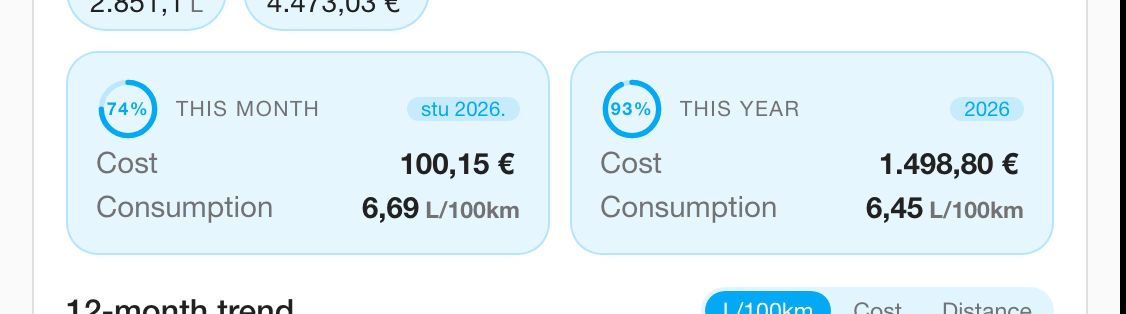
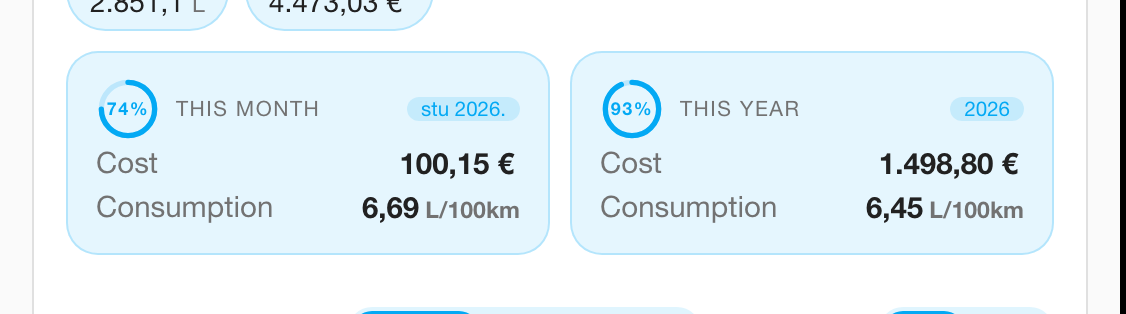
feat(card): history sparklines and a 12M/24M range switch
Four mini sparkline cards (L/100km, cost, distance, price/litre) with the latest
value and the change against the previous month, plus a 12M/24M range switch on
the trend chart (the months payload already stores 24). Verified: 12 points on
12M, 24 on 24M, back to 12; mini sparklines drawn for all four series.

Changed region(s): [[0.3108, 0.8885, 0.9325, 1.0], [0.1554, 0.0, 0.4041, 0.086], [0.0622, 0.9459, 0.2798, 1.0]]

diff --git a/custom_components/fuelusagetracker/frontend/fuelusagetracker-card.js b/custom_components/fuelusagetracker/frontend/fuelusagetracker-card.js
@@ -53,6 +53,14 @@ const TREND_SERIES = [
   { key: "distance", label: "Distance", digits: 0, unit: "km" },
 ];
 
+/** Small history sparklines: the four numbers that move month to month. */
+const MINI_SERIES = [
+  { key: "avg_consumption", label: "L/100km", digits: 2 },
+  { key: "cost", label: "Cost", digits: 2, money: true },
+  { key: "distance", label: "Distance", digits: 0 },
+  { key: "price", label: "Price / L", digits: 3, money: true },
+];
+
 const ROLLING = [
   { key: "rolling_distance", label: "Distance", digits: 0 },
   { key: "rolling_liters", label: "Litres", digits: 2 },
@@ -160,7 +168,20 @@ const STYLES = `
   .ring .ring-track { stroke: rgba(var(--rgb-primary-color, 3, 169, 244), .18); }
   .ring .ring-fill { stroke: var(--primary-color); stroke-linecap: round; transition: stroke-dashoffset .5s ease; }
   .ring-label { position: absolute; inset: 0; display: grid; place-items: center; font-size: .56rem; font-weight: 600; color: var(--primary-color); }
-  /* 12-month chart: area + line + grid, with a segmented series control. */
+  /* History: a row of mini sparklines, then the bigger chart. */
+  .history { padding: 14px 16px 12px; }
+  .history-head { display: flex; align-items: center; justify-content: space-between; gap: 8px 12px; flex-wrap: wrap; margin-bottom: 8px; }
+  .mini-grid { display: grid; grid-template-columns: repeat(4, minmax(0, 1fr)); gap: 8px; margin-bottom: 10px; }
+  .mini-card { min-width: 0; padding: 8px 10px 6px; border-radius: 12px;
+    background: rgba(var(--rgb-primary-color, 3, 169, 244), .08);
+    border: 1px solid rgba(var(--rgb-primary-color, 3, 169, 244), .18); }
+  .mini-label { font-size: .6rem; letter-spacing: .06em; text-transform: uppercase; color: var(--secondary-text-color); }
+  .mini-row { display: flex; align-items: flex-end; justify-content: space-between; gap: 6px; }
+  .mini-value { font-size: .92rem; color: var(--primary-text-color); }
+  .mini { flex: 0 0 auto; width: 62px; height: 26px; color: var(--primary-color); }
+  .mini .mini-area { fill: rgba(var(--rgb-primary-color, 3, 169, 244), .20); }
+  .mini .mini-line { fill: none; stroke: currentColor; stroke-width: 1.6; stroke-linecap: round; stroke-linejoin: round; }
+  @container (max-width: 519px) { .mini-grid { grid-template-columns: repeat(2, minmax(0, 1fr)); } }
   .trend { padding: 4px 16px 12px; }
   .trend-head { display: flex; align-items: center; justify-content: space-between; gap: 8px; margin-bottom: 4px; }
   .trend-title { font-weight: 500; color: var(--primary-text-color); }
@@ -307,6 +328,22 @@ function trendChart() {
   return { node: svg, area, line, dots, hit };
 }
 
+/** Tiny sparkline for one history metric. */
+function miniChart() {
+  const ns = "http://www.w3.org/2000/svg";
+  const svg = document.createElementNS(ns, "svg");
+  svg.setAttribute("class", "mini");
+  svg.setAttribute("viewBox", "0 0 62 26");
+  svg.setAttribute("preserveAspectRatio", "none");
+  svg.setAttribute("aria-hidden", "true");
+  const area = document.createElementNS(ns, "path");
+  area.setAttribute("class", "mini-area");
+  const line = document.createElementNS(ns, "path");
+  line.setAttribute("class", "mini-line");
+  svg.append(area, line);
+  return { node: svg, area, line };
+}
+
 /** Plain svg container for the header's 12-month bar mini-chart. */
 function barChart() {
   const svg = document.createElementNS("http://www.w3.org/2000/svg", "svg");
@@ -407,6 +444,7 @@ class FuelUsageTrackerCard extends HTMLElement {
     this._trendIndex = 0;
     this._trendPick = null;
     this._trendRows = [];
+    this._trendRange = 12;
   }
 
   static getStubConfig(hass) {
@@ -501,7 +539,7 @@ class FuelUsageTrackerCard extends HTMLElement {
     const state = this._entity(vehicle, "month_cost");
     const rows = (state && state.attributes && state.attributes.months) || [];
     return rows
-      .slice(0, 12)
+      .slice(0, 24)
       .reverse()
       .map((row) => ({
         period: String(row.period || ""),
@@ -511,6 +549,69 @@ class FuelUsageTrackerCard extends HTMLElement {
         avg_consumption: Number(row.avg_consumption),
       }))
       .filter((row) => row.period);
+  }
+
+  /** Pull one history metric out of a month row (price is derived). */
+  _seriesValue(row, series) {
+    if (series.key === "price") return row.liters > 0 ? row.cost / row.liters : NaN;
+    return row[series.key];
+  }
+
+  /** Draw one mini sparkline (area + line) from a list of values. */
+  _drawMini(chart, values) {
+    const points = values.filter((value) => Number.isFinite(value));
+    if (points.length < 2) {
+      chart.line.setAttribute("d", "");
+      chart.area.setAttribute("d", "");
+      return;
+    }
+    const WIDTH = 62;
+    const HEIGHT = 26;
+    const PAD = 2;
+    const min = Math.min(...points);
+    const span = Math.max(...points) - min || 1;
+    const mapped = points.map((value, index) => [
+      PAD + (index / (points.length - 1)) * (WIDTH - PAD * 2),
+      HEIGHT - PAD - ((value - min) / span) * (HEIGHT - PAD * 2),
+    ]);
+    const line = mapped
+      .map(([x, y], index) => `${index ? "L" : "M"}${x.toFixed(1)},${y.toFixed(1)}`)
+      .join(" ");
+    const last = mapped[mapped.length - 1];
+    chart.line.setAttribute("d", line);
+    chart.area.setAttribute("d", `${line} L${last[0].toFixed(1)},${HEIGHT} L${mapped[0][0].toFixed(1)},${HEIGHT} Z`);
+  }
+
+  /** History block: four mini sparklines plus the bigger trend chart. */
+  _renderHistory(vehicle) {
+    const refs = this._refs.minis;
+    const rows = this._history(vehicle).slice(-12);
+    const currency = this._currency(vehicle);
+    for (const series of MINI_SERIES) {
+      const ref = refs && refs[series.key];
+      if (!ref) continue;
+      const values = rows.map((row) => this._seriesValue(row, series));
+      this._drawMini(ref.chart, values);
+      const usable = values.filter((value) => Number.isFinite(value));
+      const last = usable[usable.length - 1];
+      const previous = usable[usable.length - 2];
+      ref.value.textContent = Number.isFinite(last)
+        ? series.money
+          ? this._money(last, currency)
+          : this._number(last, series.digits)
+        : "-";
+      const diff = Number.isFinite(last) && Number.isFinite(previous) ? last - previous : null;
+      if (diff === null) {
+        ref.delta.textContent = "";
+        ref.delta.className = "mini-delta";
+      } else {
+        ref.delta.textContent = `${diff > 0 ? "▲" : "▼"} ${
+          series.money ? this._money(Math.abs(diff), currency) : this._number(Math.abs(diff), series.digits)
+        }`;
+        ref.delta.className = "mini-delta";
+      }
+    }
+    this._renderTrend(vehicle);
   }
 
   /** The glow header's 12-month cost bars; hidden while there is nothing to plot. */
@@ -544,7 +645,10 @@ class FuelUsageTrackerCard extends HTMLElement {
   _renderTrend(vehicle) {
     const refs = this._refs.trend;
     const series = TREND_SERIES[this._trendIndex] || TREND_SERIES[0];
-    const rows = this._history(vehicle).filter((row) => Number.isFinite(row[series.key]));
+    const range = this._trendRange || 12;
+    const rows = this._history(vehicle)
+      .slice(-range)
+      .filter((row) => Number.isFinite(row[series.key]));
     this._trendRows = rows;
     if (rows.length < 2) {
       refs.node.style.display = "none";
@@ -814,6 +918,7 @@ class FuelUsageTrackerCard extends HTMLElement {
       );
     }
 
+    const miniRefs = {};
     const summary = el("div", { class: "periods-summary" });
     const panelBars = {};
     for (const panel of PERIOD_PANELS) {
@@ -841,7 +946,7 @@ class FuelUsageTrackerCard extends HTMLElement {
           this._trendIndex = index;
           this._trendPick = null;
           segments.forEach((node, i) => node.setAttribute("aria-pressed", String(i === index)));
-          this._renderTrend(vehicle);
+          this._renderHistory(vehicle);
         },
       })
     );
@@ -852,21 +957,47 @@ class FuelUsageTrackerCard extends HTMLElement {
       if (!box.width || this._trendRows.length < 2) return;
       const ratio = Math.min(1, Math.max(0, (event.clientX - box.left) / box.width));
       this._trendPick = Math.round(ratio * (this._trendRows.length - 1));
-      this._renderTrend(vehicle);
+      this._renderHistory(vehicle);
     };
     chart.hit.addEventListener("pointerdown", pick);
     chart.hit.addEventListener("pointermove", pick);
-    const trendNode = el("div", { class: "trend" }, [
-      el("div", { class: "trend-head" }, [
-        el("span", { class: "trend-title", text: "12-month trend" }),
+    const ranges = [12, 24].map((months) =>
+      el("button", {
+        type: "button",
+        "aria-pressed": months === this._trendRange ? "true" : "false",
+        text: months === 24 ? "24M" : "12M",
+        onclick: () => {
+          this._trendRange = months;
+          this._trendPick = null;
+          ranges.forEach((node, i) => node.setAttribute("aria-pressed", String([12, 24][i] === months)));
+          this._renderHistory(vehicle);
+        },
+      })
+    );
+    const minis = MINI_SERIES.map((series) => {
+      const value = el("span", { class: "mini-value" });
+      const delta = el("span", { class: "mini-delta" });
+      const mini = miniChart();
+      miniRefs[series.key] = { chart: mini, value, delta, series };
+      return el("div", { class: "mini-card" }, [
+        el("span", { class: "mini-label", text: series.label }),
+        el("div", { class: "mini-row" }, [value, mini.node]),
+        delta,
+      ]);
+    });
+    const historyNode = el("div", { class: "history" }, [
+      el("div", { class: "history-head" }, [
+        el("span", { class: "trend-title", text: "History" }),
         el("div", { class: "segments" }, segments),
+        el("div", { class: "segments" }, ranges),
       ]),
+      el("div", { class: "mini-grid" }, minis),
       chart.node,
       trendRead,
     ]);
 
     const error = el("div", { class: "error", hidden: "" });
-    card.append(glow, error, chips, summary, trendNode);
+    card.append(glow, error, chips, summary, historyNode);
 
     // Trailing-window strip; hidden entirely when the rolling_* sensors are absent.
     const rollingWindow = el("span", { class: "window" });
@@ -995,6 +1126,7 @@ class FuelUsageTrackerCard extends HTMLElement {
       spark,
       panels: panelBars,
       trend: { node: chart.node, area: chart.area, line: chart.line, dots: chart.dots, read: trendRead },
+      minis: miniRefs,
       last: lastRefs,
       inputs,
       addButton,
@@ -1065,7 +1197,7 @@ class FuelUsageTrackerCard extends HTMLElement {
       progress.label.textContent = share ? `${Math.round(share)}%` : "";
     }
 
-    this._renderTrend(vehicle);
+    this._renderHistory(vehicle);
 
     const last = this._entity(vehicle, "last_fill");
     const attrs = (last && last.attributes) || {};
@@ -1313,6 +1445,7 @@ class FuelUsageTrackerCard extends HTMLElement {
     this._trendIndex = 0;
     this._trendPick = null;
     this._trendRows = [];
+    this._trendRange = 12;
     this._error = message || null;
     this._renderError();
   }

diff --git a/CHANGELOG.md b/CHANGELOG.md
@@ -4,6 +4,16 @@ All notable changes to this project are documented here. The format follows
 [Keep a Changelog](https://keepachangelog.com/en/1.1.0/) and the project uses
 [semantic versioning](https://semver.org/).
 
+## [0.13.0] - 2026-11-23
+
+### Added
+
+* **History block** under the period cards:
+  * four mini sparkline cards — L/100 km, cost, distance and price per litre —
+    each with the latest value and its change against the previous month;
+  * a **12M / 24M** range switch on the trend chart (the payload already keeps
+    24 months), next to the existing L/100 km / cost / distance series switch.
+
 ## [0.12.1] - 2026-11-23
 
 ### Fixed
@@ -483,6 +493,7 @@ consumer, and no behaviour changed except the two removals listed below.
 * HA integration test suite (config flow, options flow, services, sensor states,
   consumption maths, storage round trip, translation parity).
 
+[0.13.0]: https://github.com/ngarafol/ha_fuel_usage_tracker/releases/tag/v0.13.0
 [0.12.1]: https://github.com/ngarafol/ha_fuel_usage_tracker/releases/tag/v0.12.1
 [0.12.0]: https://github.com/ngarafol/ha_fuel_usage_tracker/releases/tag/v0.12.0
 [0.11.0]: https://github.com/ngarafol/ha_fuel_usage_tracker/releases/tag/v0.11.0

diff --git a/README.md b/README.md
@@ -288,10 +288,11 @@ vehicle's initial), the name and fuel/engine line, the headline average consumpt
 large number with its 12-month sparkline and a "vs 12-month" delta, and — when
 more than one vehicle exists — one chip per vehicle (tap to switch). Below it comes a row of glass
 chips for every other figure, and *This month* / *This year* as two tinted panels
-whose ring shows the period's cost against the usual one. Under them a
-**12-month trend chart** (area + line, switchable between L/100 km, cost and
-distance) plots the monthly history and reports the tapped month. No grid of
-boxes.
+whose ring shows the period's cost against the usual one. Under them a **history block**: four
+mini sparklines (L/100 km, cost, distance, price/litre, each with the latest
+value and its change) and a **trend chart** (area + line, switchable between
+L/100 km, cost and distance, 12 or 24 months) that reports the tapped month. No
+grid of boxes.
 
 The card uses only Home Assistant theme variables (plus a gradient from
 `--primary-color`), so it follows your theme in light and dark mode; `backdrop-filter`

diff --git a/docs/ARCHITECTURE.md b/docs/ARCHITECTURE.md
@@ -241,8 +241,9 @@ picker. It must:
 
 * open with the glow header (avatar, name, headline average consumption, 12-month
   bar mini-chart and the vs-12-month delta), a row of chips for the rest, two
-  period panels with a share ring, and a 12-month trend chart with a series
-  switcher reading the `months` payload,
+  period panels with a share ring, and a history block (four mini sparklines plus
+  a trend chart with series and 12M/24M range switchers) reading the `months`
+  payload,
 * read stats from entities via the `key` attribute (never from guessed entity ids),
 * surface **every** sensor key somewhere (the headline number, a chip, the rolling strip, a period
   table row, a last-fill row or the fill-up list); a key the card never renders
